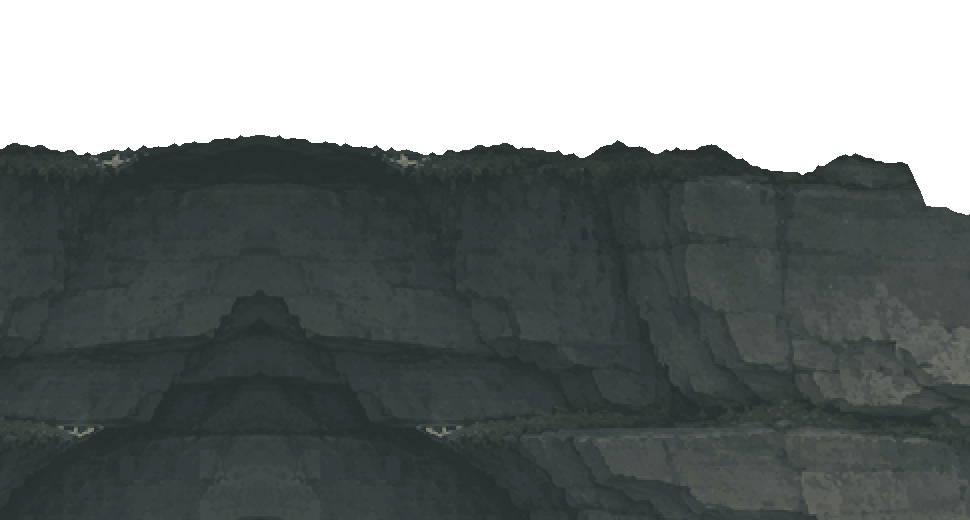
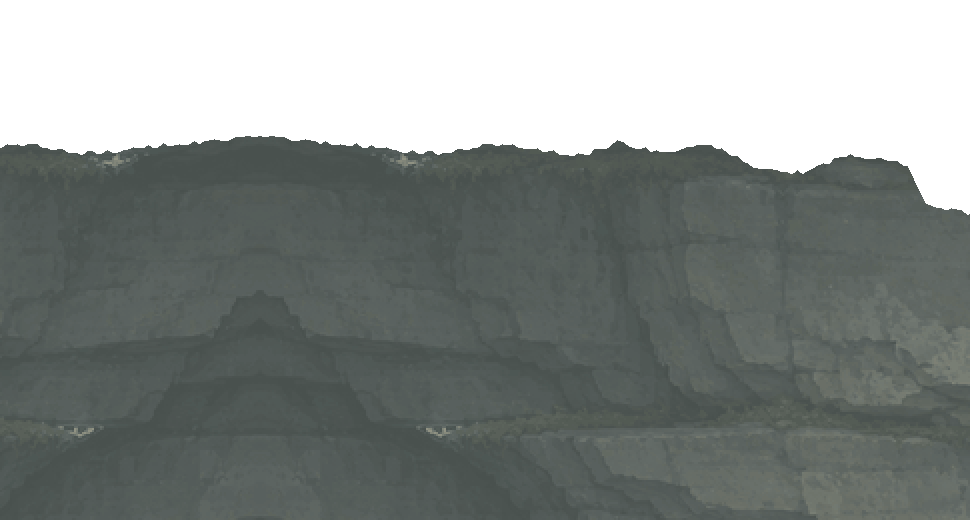
Make the first sign discoverable and align the return passage artwork

diff --git a/art/rooms/plains_intro/build_ridge_backwall.py b/art/rooms/plains_intro/build_ridge_backwall.py
@@ -1,0 +1,64 @@
+"""Bake the P13 return passage from the current P03 cliff at the d017 seam."""
+import argparse
+import json
+from io import BytesIO
+from pathlib import Path
+
+from PIL import Image
+
+PROJECT = Path(__file__).resolve().parents[3] / "production"
+WORLD = PROJECT / "rooms/world"
+SOURCE_ASSET = "res://assets/scenery/p03/ravine_backwall.webp"
+TARGET_ASSET = "res://rooms/world/p02_connections/ridge_backwall.webp"
+OUTPUT_SIZE = (970, 520)
+
+
+def anchor(document, texture):
+    piece, = (row for row in document["scenery"]["pieces"] if row["texture"] == texture)
+    return piece["at"]
+
+
+def bake():
+    source_doc = json.loads((WORLD / "P03.json").read_text())
+    target_doc = json.loads((WORLD / "p02_connections/P13.json").read_text())
+    source_at = anchor(source_doc, SOURCE_ASSET)
+    target_at = anchor(target_doc, TARGET_ASSET)
+    source_gate = source_doc["exits"]["d017"]["point"]
+    target_gate = target_doc["exits"]["d017"]["point"]
+    with Image.open(PROJECT / SOURCE_ASSET.removeprefix("res://")) as raw:
+        source = raw.convert("RGBA")
+    width, height = OUTPUT_SIZE
+    # Scenery anchors use bottom center. Map the two foreground canvases through
+    # their paired physical gate before sampling the ravine at native scale.
+    left = target_at[0] - width // 2 + source_gate[0] - target_gate[0] - (source_at[0] - source.width // 2)
+    top = target_at[1] - height + source_gate[1] - target_gate[1] - (source_at[1] - source.height)
+    if not (0 <= left < source.width and 0 <= top <= source.height - height):
+        raise ValueError("The P13 mouth no longer overlaps the authored P03 backdrop")
+    straight = min(width, source.width - left)
+    reflected = width - straight
+    if reflected > source.width:
+        raise ValueError("The P13 extension exceeds one reflected cliff face")
+    result = Image.new("RGBA", OUTPUT_SIZE)
+    result.paste(source.crop((left, top, left + straight, top + height)), (0, 0))
+    if reflected:
+        cliff = source.crop((source.width - reflected, top, source.width, top + height))
+        result.paste(cliff.transpose(Image.Transpose.FLIP_LEFT_RIGHT), (straight, 0))
+    buffer = BytesIO()
+    result.save(buffer, format="WEBP", lossless=True, method=6)
+    return buffer.getvalue()
+
+
+if __name__ == "__main__":
+    parser = argparse.ArgumentParser(description=__doc__)
+    parser.add_argument("--check", action="store_true", help="verify the current bake without writing")
+    args = parser.parse_args()
+    output = PROJECT / TARGET_ASSET.removeprefix("res://")
+    baked = bake()
+    if args.check:
+        # Compare decoded pixels so a different libwebp build is also accepted.
+        with Image.open(output) as current, Image.open(BytesIO(baked)) as expected:
+            if current.size != expected.size or current.convert("RGBA").tobytes() != expected.convert("RGBA").tobytes():
+                raise SystemExit("P13 ridge_backwall.webp is stale. Run this script without --check.")
+        print("P13 backdrop matches P03 and d017.")
+    else:
+        output.write_bytes(baked)

diff --git a/art/rooms/P03/bake_ravine.py b/art/rooms/P03/bake_ravine.py
@@ -1,8 +1,10 @@
 """Bake the recessed rear face and its fungal lip at the authored room scale."""
+import json
 from pathlib import Path
 from random import Random
 
-from PIL import Image, ImageDraw, ImageEnhance, ImageOps
+import numpy as np
+from PIL import Image, ImageDraw, ImageEnhance, ImageFilter, ImageOps
 
 
 HERE = Path(__file__).resolve().parent
@@ -51,9 +53,6 @@ bracket.save(DEST/'fungal_seam.png',optimize=True)
 
 # Aligned weathering on exposed backs and cliff faces. Masks come from the
 # same solid polygons as the collision and leave the native terrain rims visible.
-import json
-import numpy as np
-from PIL import ImageFilter
 room = json.loads((ROOT/'production/rooms/world/P03.json').read_text())
 left,top = -260,-440
 width,height = 2130,1032

diff --git a/art/rooms/plains_intro/README.md b/art/rooms/plains_intro/README.md
@@ -8,6 +8,8 @@
 
 P13 的远墙裁自 P03 的 1920 × 1024 沟谷背壁图。两侧门线对应原图横坐标 1686。接收段在原生像素比例下继续向东取样，抵达原图右缘后沿反向岩纹延展。门口两侧因此保留相同的岩脊剪影和纹理高度。[P03 远墙原图](../../../production/assets/scenery/p03/ravine_backwall.webp)
 
+更新 P03 远墙、移动两侧配景锚点或调整 d017 门线后，在仓库根目录运行 `python3 art/rooms/plains_intro/build_ridge_backwall.py` 重烘焙。传入 `--check` 会逐像素核对已保存的 P13 贴图。[烘焙脚本](build_ridge_backwall.py)
+
 ## 林缘栅门
 
 d223 两侧共享木桩和门扇。四根错高立木、两根横档和斜撑取自旧平原风铃门柱，铰件与横闩取自正式鸣钟闸的铁件图集。门脚的苔根取自林缘倒木。木桩和门扇分别输出透明 PNG，开门后保留固定木桩，门扇转至侧面。[木料原图](../../../production/assets/plains_v3/windchime_gate_beam.png) · [铁件原图](../../../production/assets/mechanisms/bell_gate/bell_gate.png) · [苔根原图](../../../production/assets/world_elements/forest_stage/thorn_forest_v2_thorn_log.png) · [门桩](../../../production/rooms/world/p02_connections/forest_gate_post.png) · [门扇](../../../production/rooms/world/p02_connections/forest_gate_leaf.png)

diff --git a/docs/project/worklines/room_rebuild/scope.md b/docs/project/worklines/room_rebuild/scope.md
@@ -11,6 +11,8 @@
 
 验证顺序以房间自己的设计问题为准。P01 在同一起跳点对照普通跳和反冲，检验木台有没有真正教到新动作；P03 分别使用首访和已有壁攀的进度，检查上下两条路的可读性、上层能否绕进东龛、齿轮是否只领取一次。用相邻两端的真实机位比对接缝，并从新进度连续通过三房。三房连续控制器回归覆盖往返、重试和领取。两次无壁攀试跳分别从回头路高处与井底发起，验证角色会撞回岩脊或落回谷底；从 F08 林闩内侧进场与从 G08 已获壁攀的回访分别用独立进度验证。7 条物理连接的 14 个端点与锁定地图相符。[联测脚本](../../../../production/tests/plains_intro_rooms.gd) · [接收段与素材](../../../../art/rooms/plains_intro/README.md)
 
+一位未读解法的试玩者在 P01 主动找到了木牌，也借反冲落上贴着风旗的横梁；第一次读牌依赖了既有的按键知识。告示现在会在可读距离内显示 ↑ / W，打开后收起提示。P03 首访与已获壁攀回访的动作录像分段标注。
+
 普通房回归入口为 `python3 tools/check_ordinary_rooms.py`。P02 的认可和下面的第 6 版资料对应原样板。
 
 ## P02 田埂反冲教学 · 整房已认可

diff --git a/art/rooms/P03/README.md b/art/rooms/P03/README.md
@@ -1,0 +1,11 @@
+# P03 沟谷升坡
+
+从 P02 进入时，玩家先沿谷底向东走。岩棚上连续的草缘勾出回头路，西侧背岩的位置贯穿谷底和上层两个视角。右肩的遮挡使两条路分开，首访沿开阔台面向西回到旧路，带着 W 回访时可以从岩腹下走到背面，蹬过石壁进入菌光龛。门、落点和回访奖励的位置由[正式房间](../../../production/rooms/world/P03.json)持有。
+
+谷地共享 P02 的远景。后壁使用一张风化石灰岩原画，西侧与上层旧路相接，东侧延续到 P13 的接入段。前方岩面按正式碰撞轮廓取样，保留原生地形的草缘；接近门槛时逐渐露出两侧共用的材质。菌光取自区域像素库，分别长在通道地面、井侧岩缝和收藏台面。
+
+原画身份、菌类和纹理来源、游戏资产哈希见[来源表](sources.json)。安装 Pillow 和 NumPy 后，在仓库根目录运行以下命令即可从原画与房间重建运行图。
+
+```sh
+python3 art/rooms/P03/bake_ravine.py
+```
